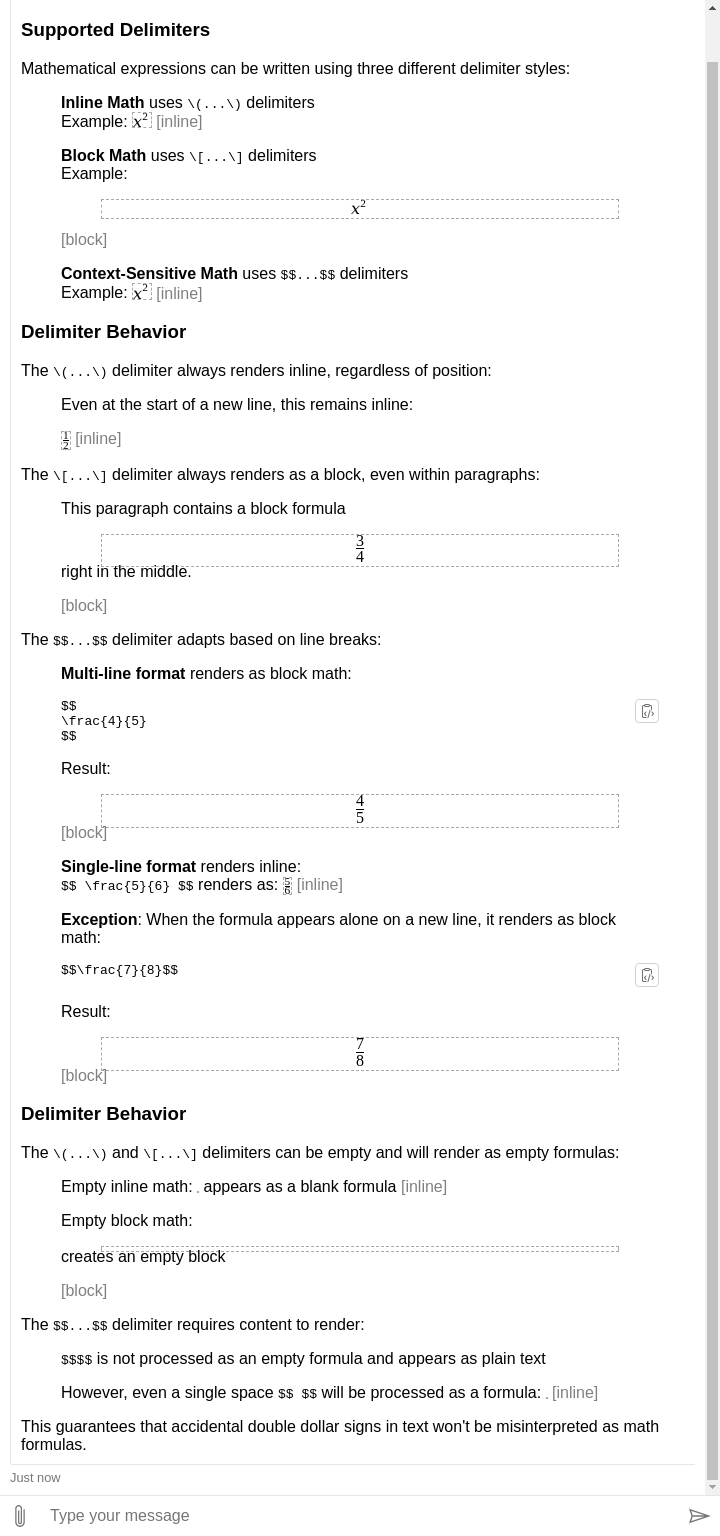
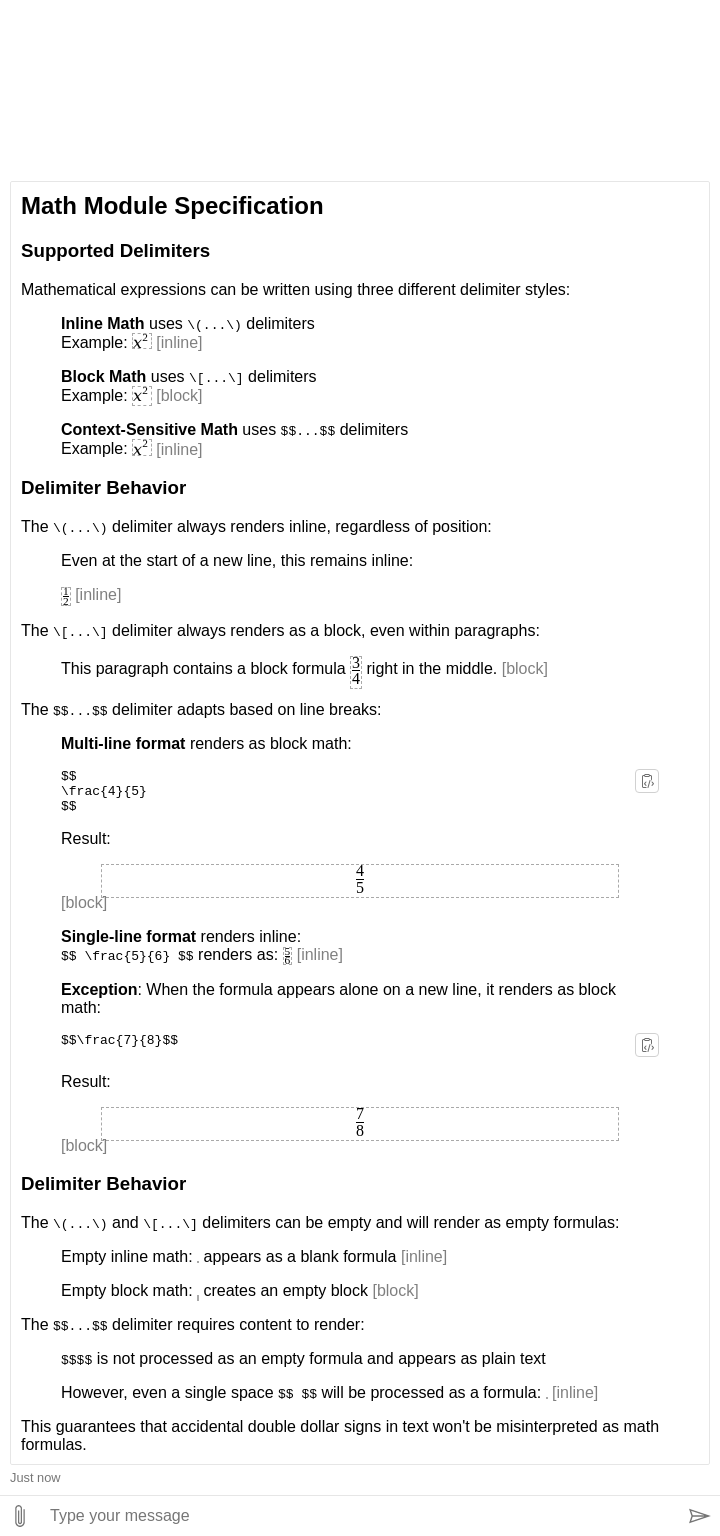
Render block formulas in the middle of paragraph as inline-flex

diff --git a/packages/bundle/src/markdown/mathExtension/mathHtml.ts b/packages/bundle/src/markdown/mathExtension/mathHtml.ts
@@ -12,14 +12,13 @@ export default function mathHtml(options: CreateHtmlRendererOptions = {}): HtmlE
         this.setData('content', this.sliceSerialize(token));
       },
       math(token: Token & { isInline: boolean; isDisplay: boolean }) {
-        // TODO: Determine how we render display math when found inline.
-        // Currently we let it be display, but this leads to invalid html markup.
-        const { isDisplay } = token;
+        const { isInline, isDisplay } = token;
         const content = this.getData('content');
 
-        const defaults = isDisplay
-          ? ({ tag: options.renderMath ? 'figure' : 'pre', type: 'block' } as const)
-          : ({ tag: 'span', type: 'inline' } as const);
+        const defaults =
+          isDisplay && !isInline
+            ? ({ tag: options.renderMath ? 'figure' : 'pre', type: 'block' } as const)
+            : ({ tag: 'span', type: isDisplay ? 'block' : 'inline' } as const);
 
         const render = (
           content: string,

diff --git a/packages/component/src/Styles/StyleSet/RenderMarkdown.ts b/packages/component/src/Styles/StyleSet/RenderMarkdown.ts
@@ -79,6 +79,10 @@ export default function createMarkdownStyle() {
         scrollbarWidth: 'thin'
       },
 
+      '& span[data-math-type=block]': {
+        display: 'inline-flex'
+      },
+
       '& [data-math-type=inline]': {
         alignItems: 'center',
         display: 'inline-flex',
